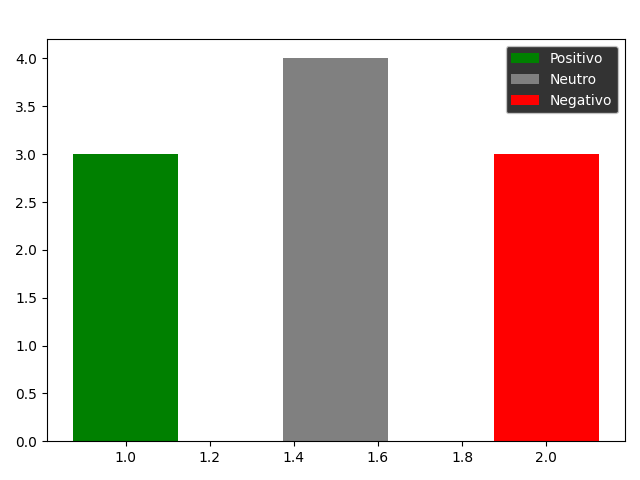
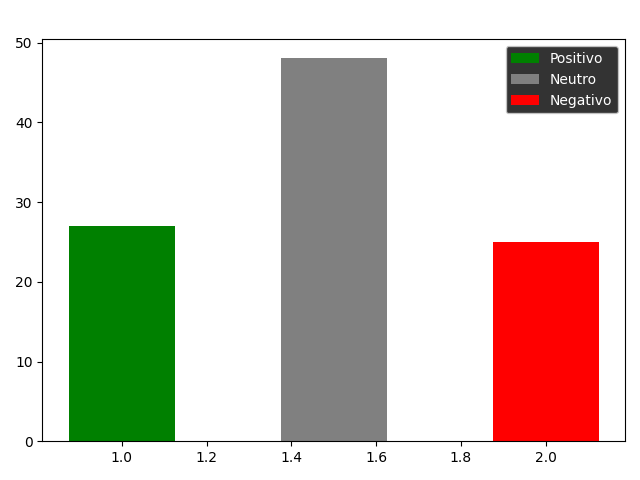
update 1

diff --git a/pages/templates/tweets/viewtweets.html b/pages/templates/tweets/viewtweets.html
@@ -9,12 +9,42 @@
         <h2 class="text-white row d-flex justify-content-center">Search: {{ term }}</h2><br>
         <div class="text-white row d-flex">
 
-            <div class="form-group">
-                <img id="charts" src="{% static '/images/temp/' %}{{term}}Pizza.png" alt="chartss">
-                <img id="charts" src="{% static '/images/temp/' %}{{term}}Bar.png" alt="chartss"><br>
+            <div class="text-white row d-flex justify-content-center">
+
+                <div class="card-transparent" style="width: 35rem;">
+                    <img class="card-img-top" src="{% static '/images/temp/' %}{{term}}Pizza.png"
+                        alt="Imagem de capa do card">
+                    <div class="card-body">
+                        <h5 class="card-title">Gráfico de pizza</h5>
+                        <p class="card-text">O gráfico de pizza acima representa a polaridade dos tweets</p>
+
+                        <ul class="list-group list-group-flush" style="color:black">
+                            <li class="list-group-item">Quantidade de tweets: {{ amoutTweets }}</li>
+                            <li class="list-group-item">Analisados: {{ tweetsAnalyzed }}</li>
+                            <li class="list-group-item">Erros: {{ tweetsError }}</li>
+                        </ul>
+                    </div>
+                </div>
+
+                <div class="card-transparent" style="width: 35rem;">
+                    <img class="card-img-top" src="{% static '/images/temp/' %}{{term}}Bar.png"
+                        alt="Imagem de capa do card">
+                    <div class="card-body">
+                        <h5 class="card-title">Gráfico de barras</h5>
+                        <p class="card-text">O gráfico de barras acima representa a polaridade dos tweets</p>
+
+                        <ul class="list-group list-group-flush" style="color:black">
+                            <li class="list-group-item">Quantidade de tweets: {{ amoutTweets }}</li>
+                            <li class="list-group-item">Analisados: {{ tweetsAnalyzed }}</li>
+                            <li class="list-group-item">Erros: {{ tweetsError }}</li>
+                        </ul>
+                    </div>
+                </div>
+
             </div>
 
             <div class="form-group">
+                <br>
                 <h2 class="text-white row d-flex justify-content-center">Tweets:</h2>
                 {% for tweet in tweets %}
                 <p><strong>Tweet ID:</strong> {{tweet.tweet_id}}</p>

diff --git a/pages/templates/index.html b/pages/templates/index.html
@@ -12,9 +12,12 @@
             <h1 class="text-white">INDEX</h1>
 
             {% else %}
-            <h1>
-                <a class="text-white" href="{% url 'searchtweets' %}">Search tweets</a>
-            </h1>
+            <p>
+                <a class="text-white" href="{% url 'searchtweets' %}">
+                    <img height="60" id="options" src="{% static '/images/search-tweets.png' %}"><br>
+                    Search tweets
+                </a>
+            </p>
 
             {% endif %}
         </div>

diff --git a/tweets/views.py b/tweets/views.py
@@ -43,6 +43,9 @@ class ViewTweetsView(TemplateView):
                     context = super().get_context_data(**kwargs)
                     context['term'] = search
                     context['tweets'] = tweets
+                    context['amoutTweets'] = amoutTweets
+                    context['tweetsAnalyzed'] = len(tweets)
+                    context['tweetsError'] = int(amoutTweets) - len(tweets)
                     
                     return render(request, 'tweets/viewtweets.html', context)
                 
